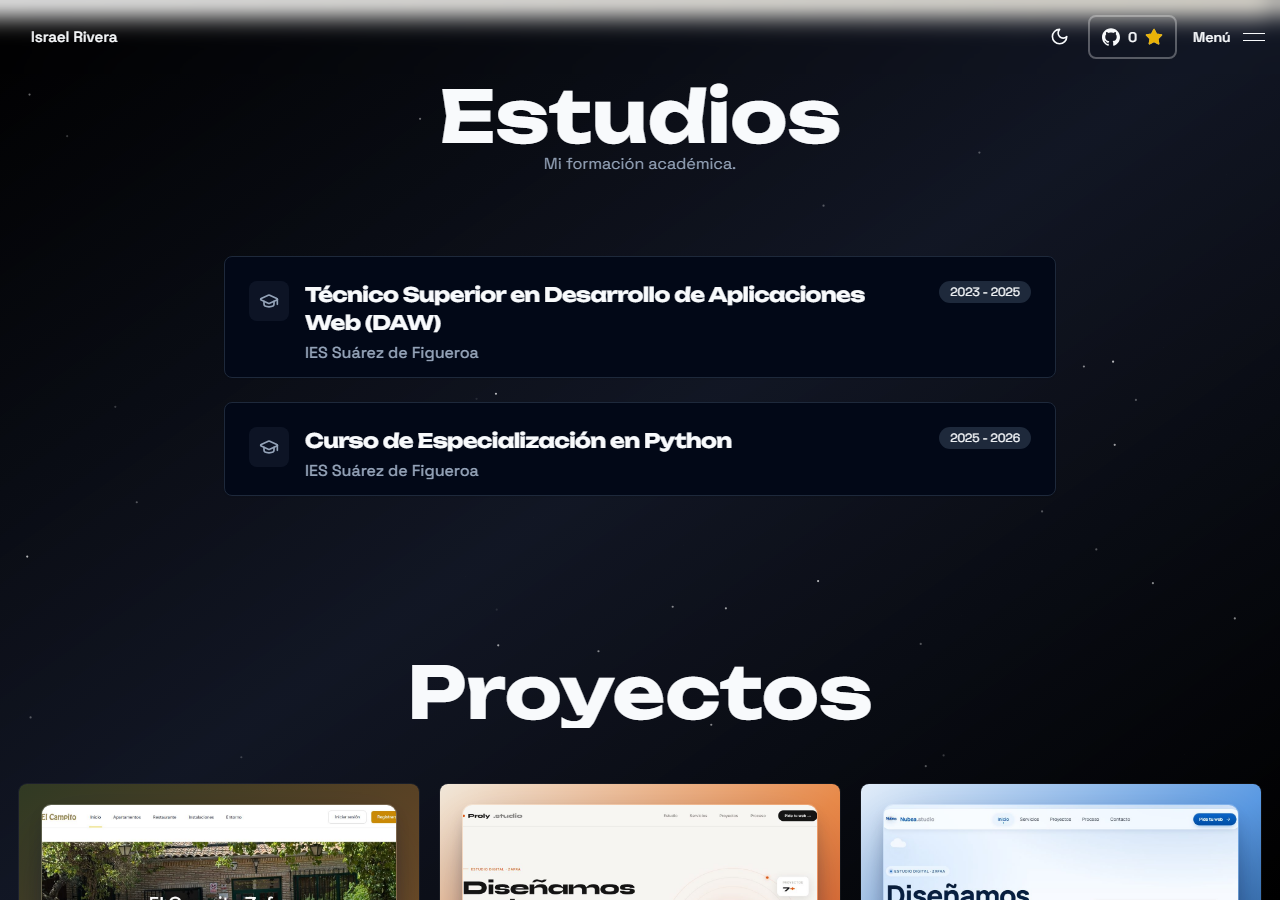
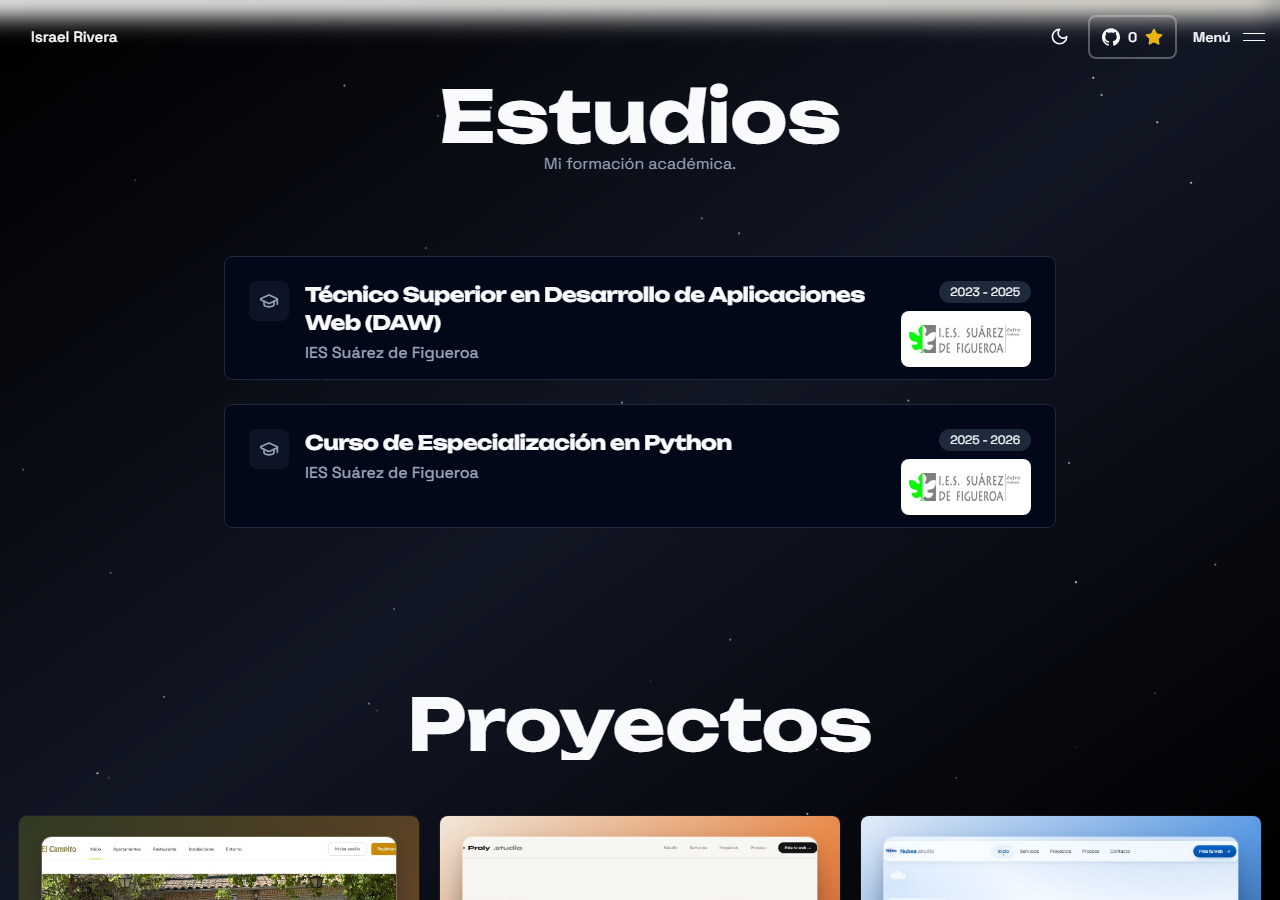
v0.14 estudios

diff --git a/src/components/sections/education.tsx b/src/components/sections/education.tsx
@@ -71,9 +71,21 @@ const EducationCard = ({
                 </div>
               </div>
             </div>
-            <Badge variant="secondary" className="w-fit shrink-0 whitespace-nowrap font-mono text-xs font-normal">
-              {education.startDate} - {education.endDate}
-            </Badge>
+            <div className="flex shrink-0 flex-col items-end gap-2">
+              <Badge variant="secondary" className="w-fit whitespace-nowrap font-mono text-xs font-normal">
+                {education.startDate} - {education.endDate}
+              </Badge>
+              {/* The logo file has its own white background baked in, so it
+                  sits in a matching white badge instead of fighting it —
+                  same fixed size on every card. */}
+              <div className="flex h-14 w-[130px] items-center justify-center rounded-lg bg-white p-2">
+                <img
+                  src="/assets/logos-institutions/ies-suarez-de-figueroa.png"
+                  alt="IES Suárez de Figueroa"
+                  className="max-h-full max-w-full object-contain"
+                />
+              </div>
+            </div>
           </div>
         </CardHeader>
       </Card>
